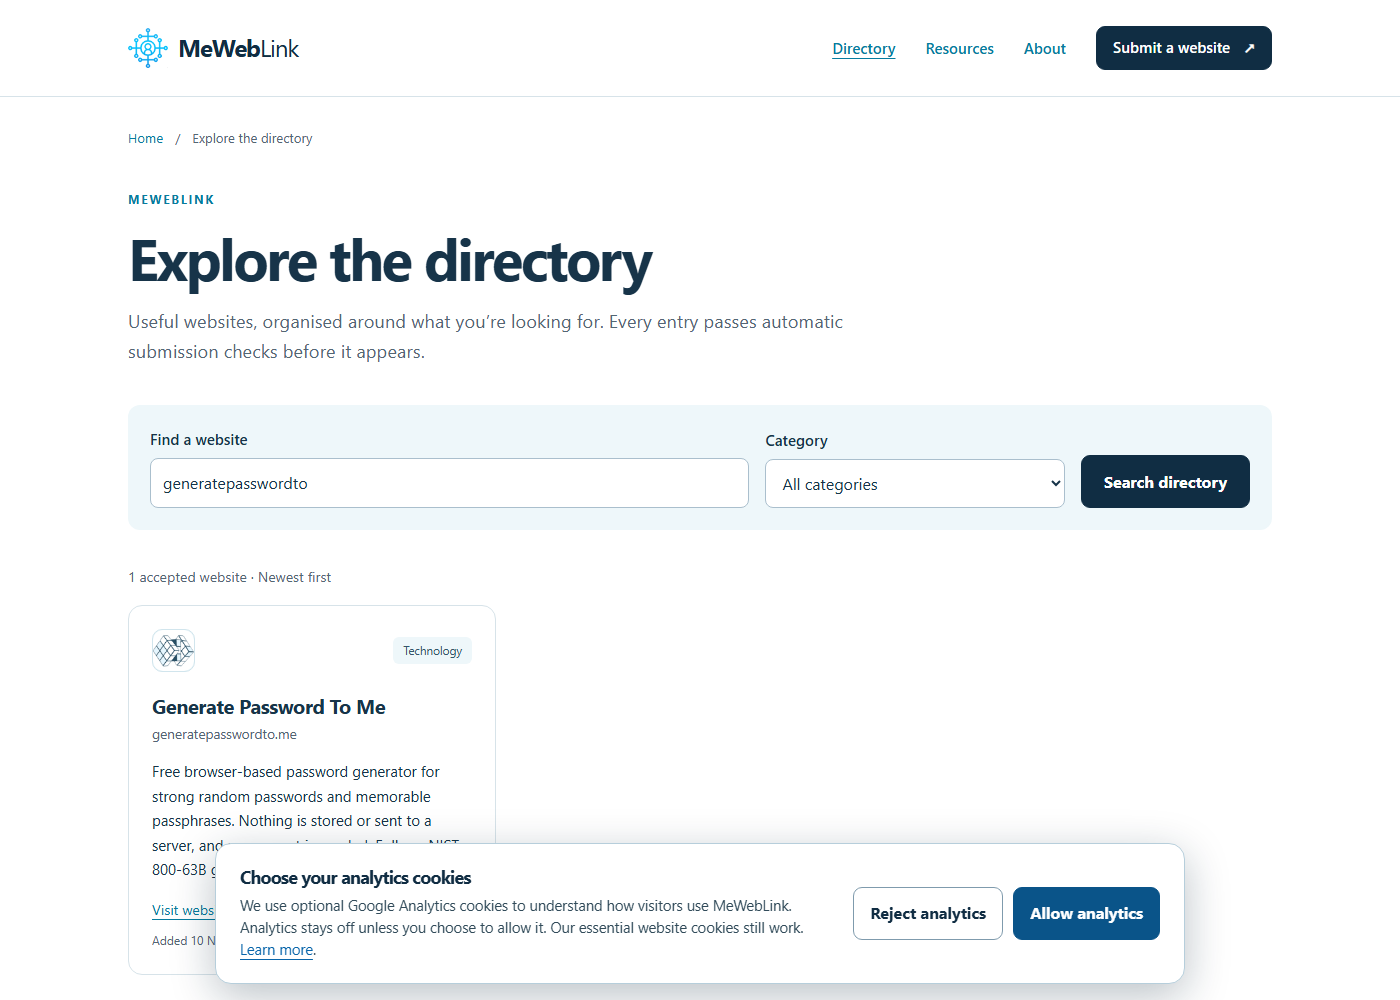
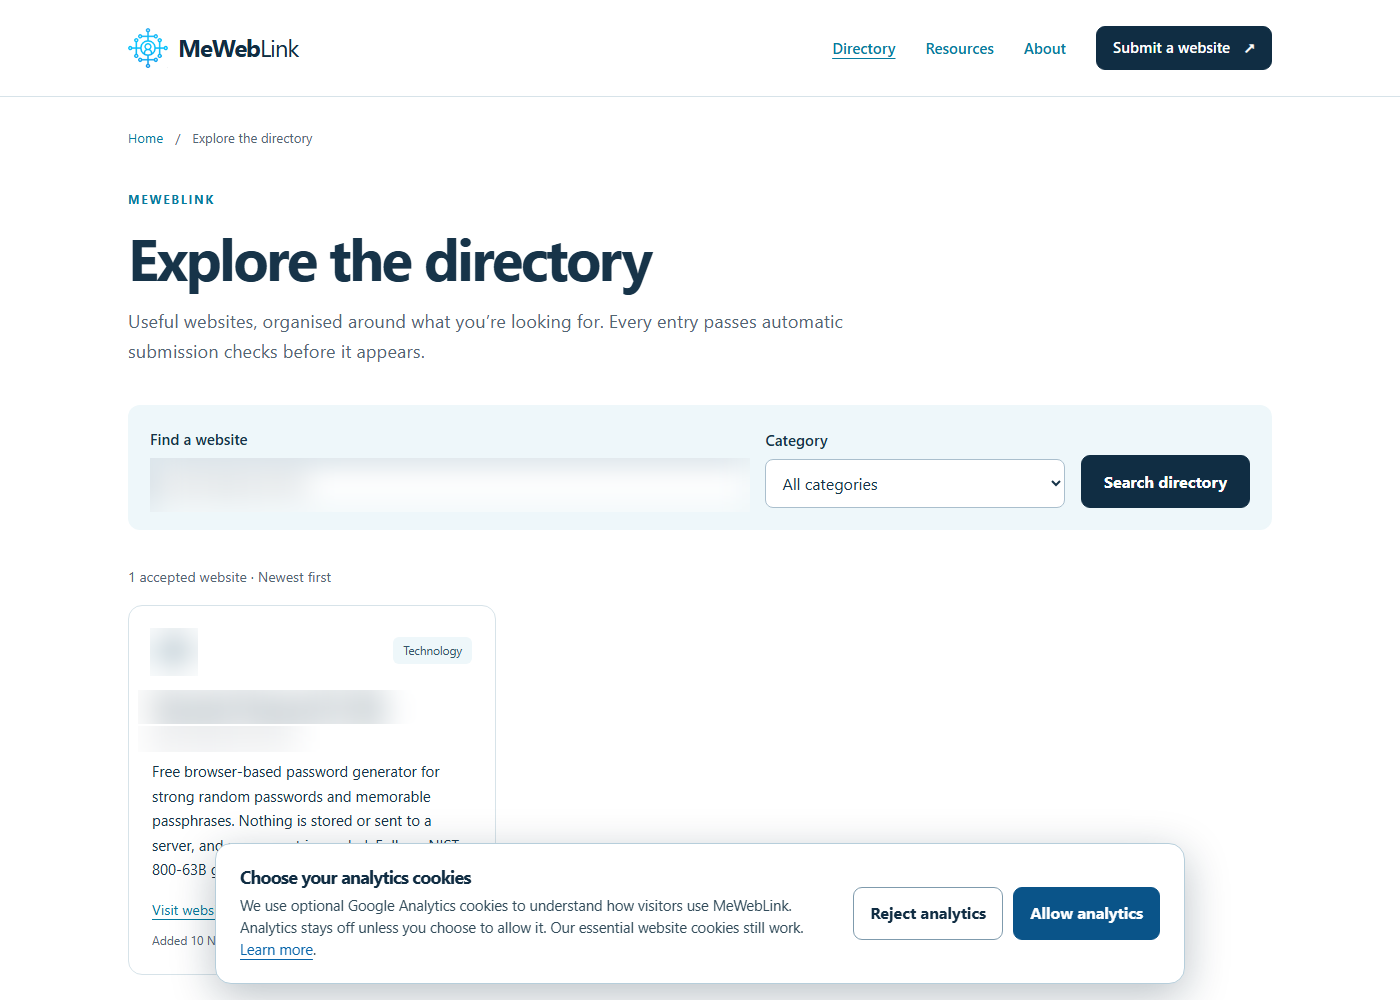
docs: anonymize the case study and remove the target site name

Changed region(s): [[0.0921, 0.434, 0.5221, 0.496], [0.0921, 0.62, 0.2764, 0.744]]

diff --git a/README.md b/README.md
@@ -9,7 +9,7 @@ An agent skill for **white-hat link building**: it finds relevant directories, f
 
 Built for [OpenCode](https://opencode.ai) and designed to work with the companion [`temp-mail-automation`](https://github.com/devcodex2025) skill. The only required inputs are a **target URL** and a **niche**.
 
-> **Tested in production** on a live site — see [Case study: generatepasswordto.me](#case-study-generatepasswordtome) for a real directory run with recorded results.
+> **Tested in production** on a live site — see [Case study: password generator](#case-study-password-generator) for a real directory run with recorded results.
 
 ---
 
@@ -24,7 +24,7 @@ Built for [OpenCode](https://opencode.ai) and designed to work with the companio
 - [Inputs](#inputs)
 - [Output: the results log](#output-the-results-log)
 - [Donor vetting and quality gates](#donor-vetting-and-quality-gates)
-- [Case study: generatepasswordto.me](#case-study-generatepasswordtome)
+- [Case study: password generator](#case-study-password-generator)
 - [Testing](#testing)
 - [Repository structure](#repository-structure)
 - [Compliance and safety](#compliance-and-safety)
@@ -122,7 +122,7 @@ Start a session in the directory where the results log should live, then send:
 Load the temp-mail-automation and link-building skills.
 Use link-building.
 
-Target URL: https://www.generatepasswordto.me/
+Target URL: https://example.com/password-generator
 Niche: password security and privacy tools
 Max attempts: 10
 Desired anchor: free password generator
@@ -148,7 +148,7 @@ Defaults: up to 10 attempts, automatic anchor selection, results written to `./l
 
 ```text
 Use link-building in directory-only mode.
-Target URL: https://www.generatepasswordto.me/
+Target URL: https://example.com/password-generator
 Niche: password generator / cybersecurity utilities
 Max attempts: 15
 Allowed donor types: tool directories, startup directories, free-software catalogs
@@ -178,7 +178,7 @@ The run pauses before each publication and shows you the draft. Nothing is poste
 
 ```text
 Use link-building in audit mode.
-Target URL: https://www.generatepasswordto.me/
+Target URL: https://example.com/password-generator
 Niche: password security
 Produce a donor shortlist with relevance scores and submission requirements.
 Do not register, submit, or publish anything.
@@ -190,7 +190,7 @@ Produces a scored prospect list and writes it to the log with `"status": "candid
 
 ```text
 Use link-building.
-Target URL: https://www.generatepasswordto.me/
+Target URL: https://example.com/password-generator
 Niche: password security
 Resume from link_building_results.json. Skip every site that already has a success or pending record.
 ```
@@ -203,7 +203,7 @@ The log is the source of truth: domains with `success`, `pending`, or `rejected`
 Завантаж skills temp-mail-automation і link-building.
 Використовуй link-building.
 
-Target URL: https://www.generatepasswordto.me/
+Target URL: https://example.com/password-generator
 Ніша: генератори паролів та кібербезпека
 Зроби 10 спроб: автоматична реєстрація, логін, публікація.
 ```
@@ -241,8 +241,8 @@ Every attempt appends one record to `link_building_results.json`:
     "password": "Pass123!Temp",
     "action": "registration_and_listing",
     "anchor_text": "free password generator",
-    "target_url": "https://www.generatepasswordto.me/",
-    "posted_url": "https://toolsdirectoryonline.com/tools/generatepasswordto-me",
+    "target_url": "https://example.com/password-generator",
+    "posted_url": "https://toolsdirectoryonline.com/tools/password-generator",
     "status": "success",
     "http_status": 200,
     "link_rel": "dofollow",
@@ -293,13 +293,13 @@ Additional publishing rules:
 
 ---
 
-## Case study: generatepasswordto.me
+## Case study: password generator
 
-A live pilot was run against **https://www.generatepasswordto.me/** — a free, client-side password generator in the password-security niche.
+A live pilot was run for a free, client-side password generator in the password-security niche. The site is intentionally anonymized in this repository.
 
 - **Niche:** password generators, cybersecurity utilities, privacy tools
 - **Donor types:** tool directories, startup directories, free-software catalogs
-- **Outcome:** 2 listings live and verified (both nofollow), 5 submissions awaiting review, 11 donors vetted out, 2 unreachable endpoints. Full records: [`examples/link_building_results.json`](examples/link_building_results.json); narrative: [`examples/case-study-generatepasswordto.md`](examples/case-study-generatepasswordto.md)
+- **Outcome:** 2 listings live and verified (both nofollow), 5 submissions awaiting review, 11 donors vetted out, 2 unreachable endpoints. Full records: [`examples/link_building_results.json`](examples/link_building_results.json); narrative: [`examples/case-study-password-generator.md`](examples/case-study-password-generator.md)
 
 The case study records what was submitted, what is awaiting moderation, what was skipped and why. It is intentionally honest about failures: a useful skill has to report the sites that did not work.
 
@@ -352,7 +352,7 @@ link-building-skills/
 │   └── donor-sources.md              # vetted source categories and search queries
 ├── examples/
 │   ├── link_building_results.json    # real sample log
-│   └── case-study-generatepasswordto.md
+│   └── case-study-password-generator.md
 └── tests/
     ├── validate_results.py
     ├── test_validate_results.py

diff --git a/examples/case-study-password-generator.md b/examples/case-study-password-generator.md
@@ -1,12 +1,11 @@
-# Case study: promoting generatepasswordto.me
+# Case study: a password generator directory campaign
 
-A real, unedited run of the skill against **https://www.generatepasswordto.me/** on **10 November 2026**.
+A real, unedited run of the skill on **10 November 2026**. The target site is intentionally anonymized: it is a free, client-side password generator in the password-security niche (12 languages, NIST 800-63B guidance, no account required).
 
-- **Target:** free, client-side password generator (12 languages, NIST 800-63B guidance, no account).
 - **Niche:** password generators, cybersecurity utilities, privacy tools.
 - **Budget:** 10 attempts; 20 donors investigated in total.
 - **Mode:** live, directory-focused.
-- **Contact identity:** `support@generatepasswordto.me` (the site's own published address).
+- **Identity:** a public support address on the target domain was used where a form required one. Names, domains, and logos are redacted in the screenshots.
 
 ## Result summary
 
@@ -24,23 +23,21 @@ Both live links are `rel="ugc nofollow"`. They are real listings with referral a
 
 ### MeWebLink — live, nofollow
 
-- Listing: https://meweblink.com/directory/ (id 5216, category Technology)
 - Submission: public form, no account, no payment.
 - Response: *"Your website passed the automatic checks and is now in the directory."*
 - Link attribute: `rel="ugc nofollow"`.
-- Screenshot: [`screenshots/20261110_meweblink.png`](screenshots/20261110_meweblink.png)
+- Screenshot (site name and search term redacted): [`screenshots/20261110_meweblink.png`](screenshots/20261110_meweblink.png)
 
-![MeWebLink listing for Generate Password To Me](screenshots/20261110_meweblink.png)
+![MeWebLink directory with the listing live](screenshots/20261110_meweblink.png)
 
 ### Zearches — live, nofollow
 
-- Listing: https://zearches.com/directory.php?slug=software-saas (newest first)
 - Submission: public form, no account, no email confirmation.
 - Response: *"Your website was saved and added to the directory."*
 - Link attribute: `rel="ugc nofollow"`.
-- Screenshot: [`screenshots/20261110_zearches.png`](screenshots/20261110_zearches.png)
+- Screenshot (site name and domain redacted): [`screenshots/20261110_zearches.png`](screenshots/20261110_zearches.png)
 
-![Zearches listing for Generate Password To Me](screenshots/20261110_zearches.png)
+![Zearches category with the listing live](screenshots/20261110_zearches.png)
 
 ## Pending submissions
 
@@ -48,9 +45,13 @@ Both live links are `rel="ugc nofollow"`. They are real listings with referral a
 |---|---:|---|---|
 | freenosignup.com | 9/10 | 3–5 days | Directory explicitly excludes tools that require registration; ideal fit. Google Form recorded. |
 | thewebisfree.com | 8/10 | 1–2 days | Free / open-source / privacy-friendly tools only. Contact Form 7 confirmation received. |
-| thetooldirectory.com | 8/10 | 24–48 h | Utilities category, permanent dofollow stated on approval. Site search shows no listing yet. |
-| launchingnext.com | 7/10 | ~4 months | Free queue; $99 fast-track declined. Dofollow DA 51 on publication. |
+| thetooldirectory.com | 8/10 | 24–48 h | Utilities category, permanent dofollow stated on approval. Site search shows no listing yet. Screenshot: [`screenshots/20261110_thetooldirectory.jpeg`](screenshots/20261110_thetooldirectory.jpeg) |
+| launchingnext.com | 7/10 | ~4 months | Free queue; $99 fast-track declined. Dofollow DA 51 on publication. Queue status: [`screenshots/20261110_launchingnext.jpeg`](screenshots/20261110_launchingnext.jpeg) |
 | launchpedia.co | 6/10 | Not stated | Elementor form returned "Your submission was successful." No paid promotion purchased. |
+
+![Free listing submitted for review](screenshots/20261110_thetooldirectory.jpeg)
+
+![Submission queue status](screenshots/20261110_launchingnext.jpeg)
 
 ## Paid-only and reciprocal traps
 
@@ -123,7 +124,6 @@ Machine-readable records: [`link_building_results.json`](link_building_results.j
 
 - Re-check the five pending submissions and update each record with the live `posted_url` and verified `link_rel`.
 - Solve the SaaSHub and AlternativeTo CAPTCHAs in the open tabs, then finish those listings.
-- Submit to `thewebisfree.com` and `freenosignup.com` follow-ups if not approved within their review windows.
 - Explore niche infosec communities only where self-promotion is explicitly allowed.
 - Do not add reciprocal badges for twelve.tools, Fazier, or ToolPilot without operator approval.
 
@@ -131,7 +131,7 @@ Machine-readable records: [`link_building_results.json`](link_building_results.j
 
 ```text
 Use link-building.
-Target URL: https://www.generatepasswordto.me/
+Target URL: https://example.com/password-generator
 Niche: password generators and cybersecurity utilities
 Allowed donor types: directory
 Max attempts: 10

diff --git a/CHANGELOG.md b/CHANGELOG.md
@@ -5,7 +5,7 @@ All notable changes to this project are documented here. The format follows [Kee
 ## [Unreleased]
 
 ### Changed
-- Expanded the `generatepasswordto.me` pilot: two listings are now live (MeWebLink, Zearches), five submissions await review, and paid-only/captcha handoffs are documented per donor.
+- Expanded the password-generator pilot: two listings are now live (MeWebLink, Zearches), five submissions await review, and paid-only/captcha handoffs are documented per donor.
 
 ## [3.0.0] - 2026-11-10
 
@@ -16,7 +16,7 @@ All notable changes to this project are documented here. The format follows [Kee
 - Repository metadata: MIT license, changelog, contributing guide, CI workflow.
 - JSON schema validator (`tests/validate_results.py`) with unit tests and fixtures.
 - `data/donor-sources.md` with query families and vetted source categories.
-- Real campaign case study for `generatepasswordto.me`.
+- Real campaign case study for a password generator.
 
 ### Changed
 - Results log schema is now validated: required fields, ISO-8601 UTC timestamps, allowed statuses, numeric ranges.

diff --git a/SKILL.md b/SKILL.md
@@ -153,8 +153,8 @@ Append one record per attempt to `link_building_results.json` immediately after 
     "password": "Pass123!Temp",
     "action": "registration_and_listing",
     "anchor_text": "free password generator",
-    "target_url": "https://www.generatepasswordto.me/",
-    "posted_url": "https://toolsdirectoryonline.com/tools/generatepasswordto-me",
+    "target_url": "https://example.com/password-generator",
+    "posted_url": "https://toolsdirectoryonline.com/tools/password-generator",
     "status": "success",
     "http_status": 200,
     "link_rel": "dofollow",

diff --git a/data/donor-sources.md b/data/donor-sources.md
@@ -55,7 +55,7 @@ intitle:"useful resources" <niche>
 
 ## Worked example: password-security niche
 
-Leads used for the `generatepasswordto.me` pilot. Verify each before use.
+Leads used for the password-security pilot. Verify each before use.
 
 | Domain | Type | Account needed | Notes |
 |---|---|---|---|
